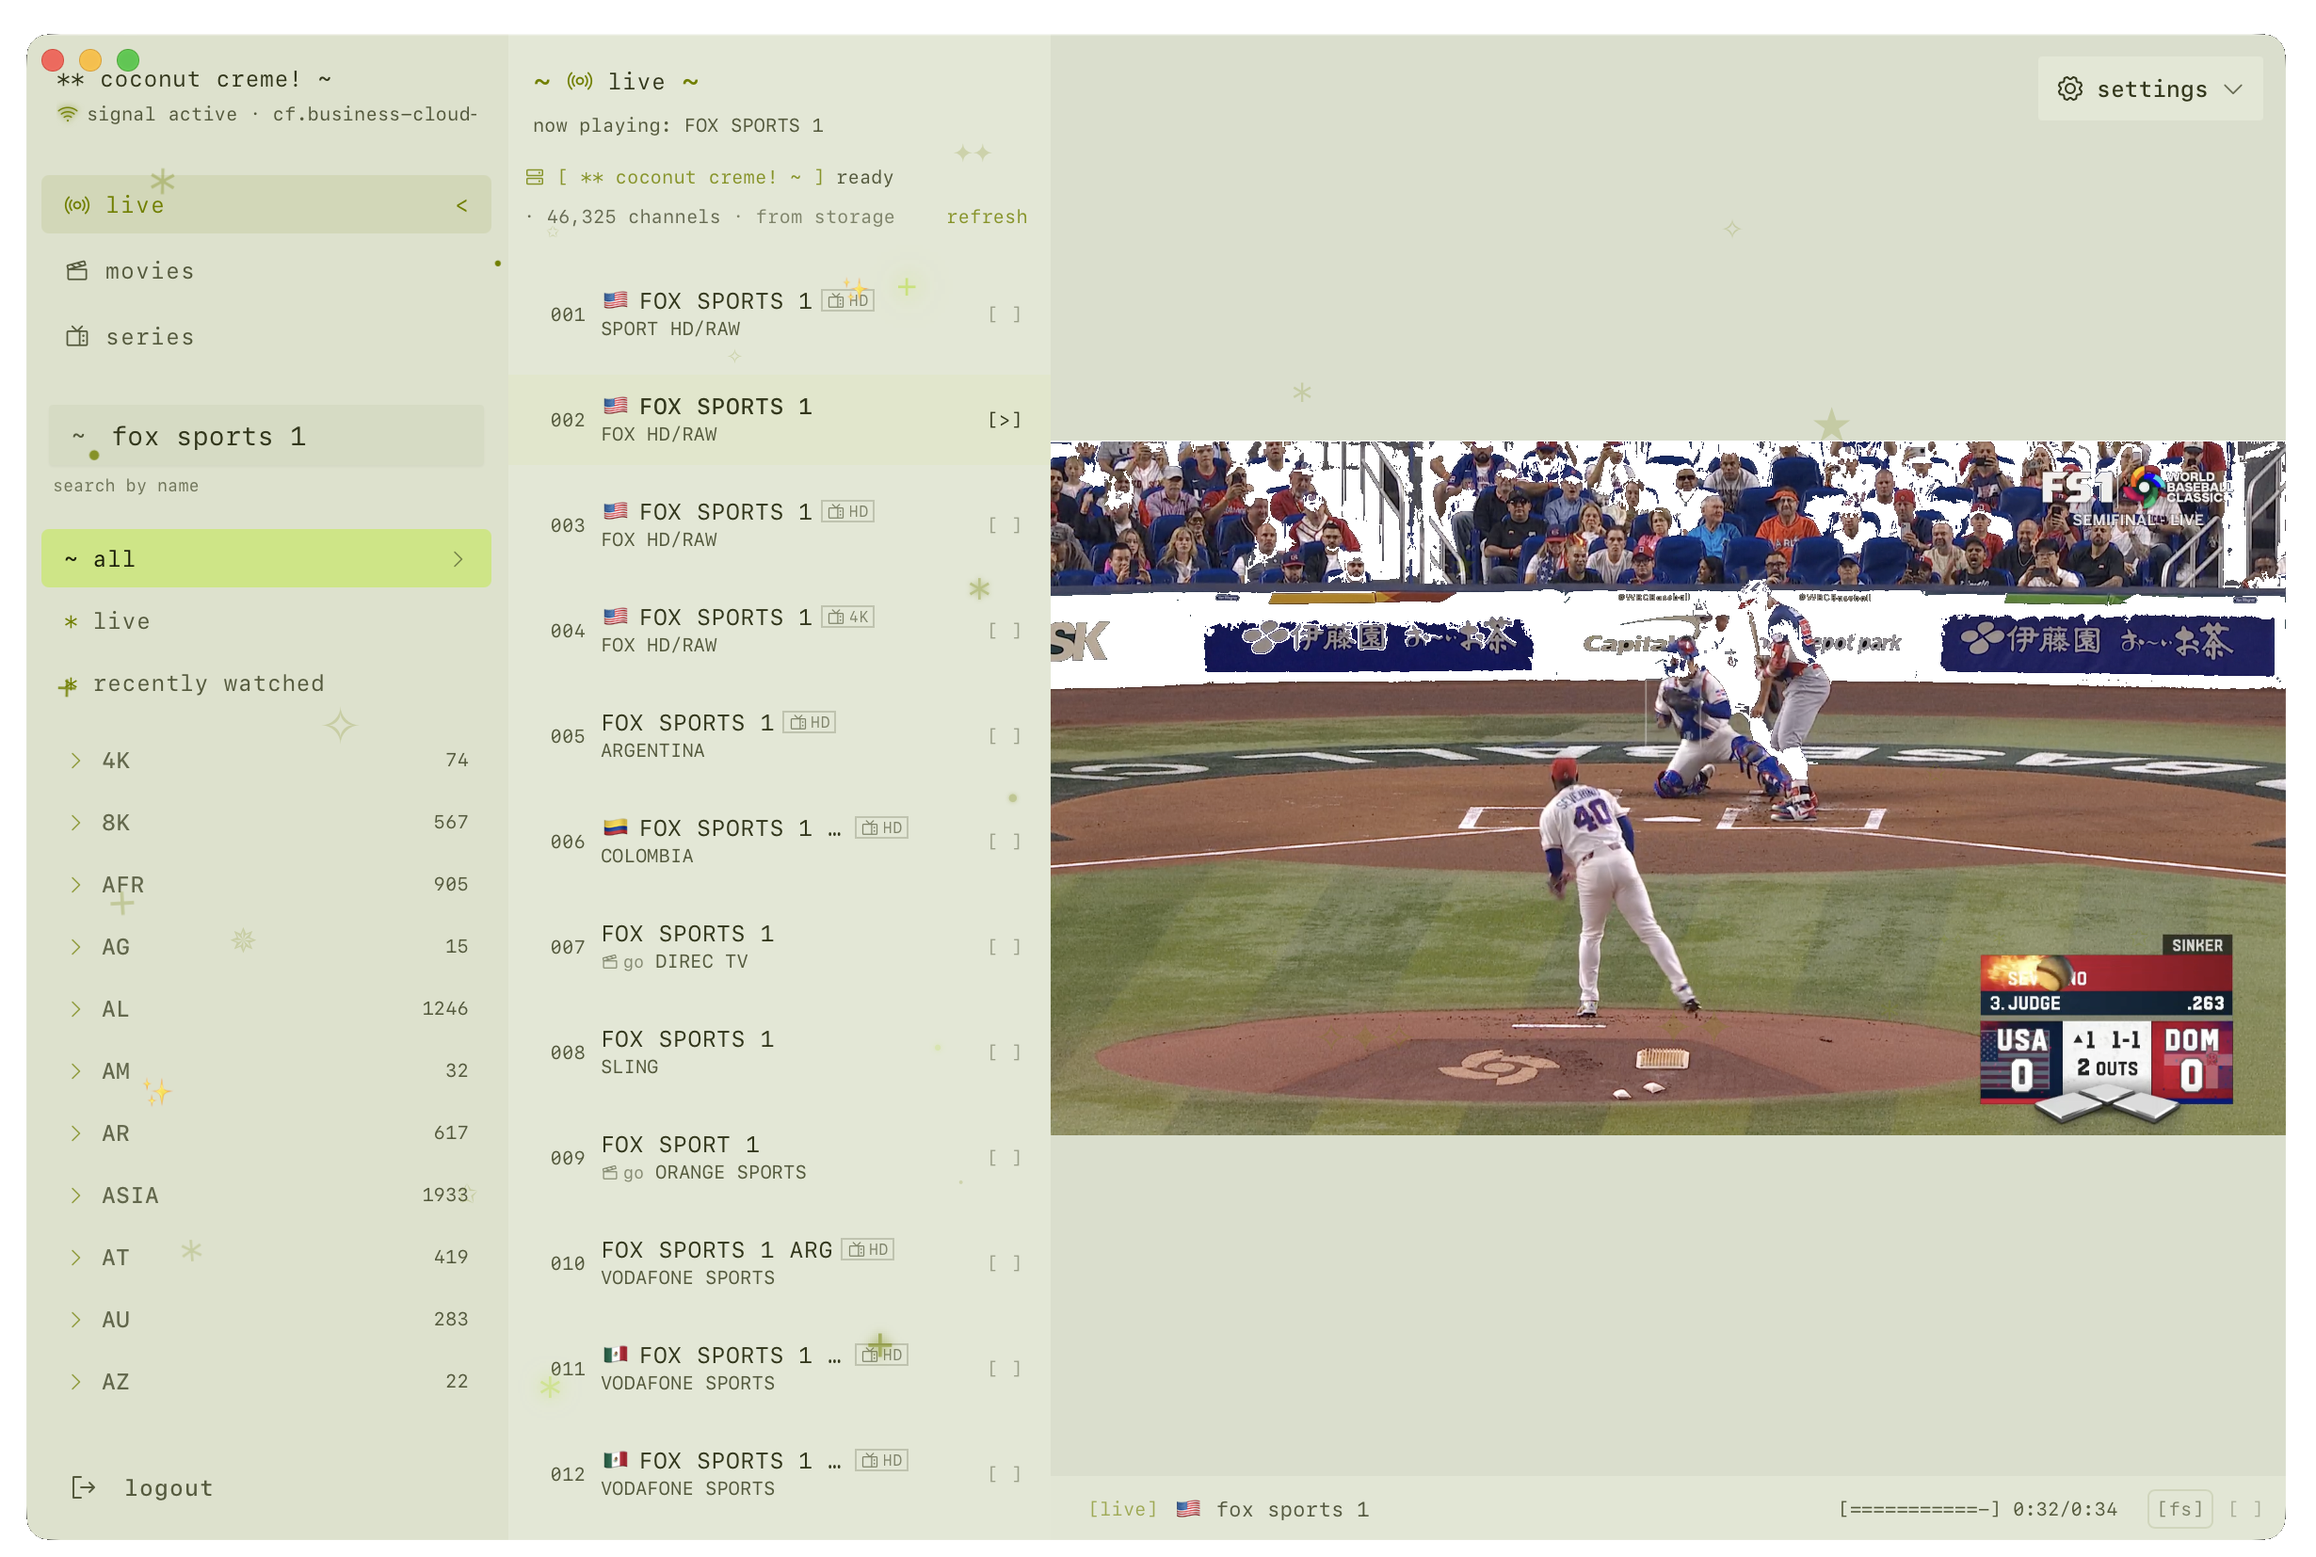
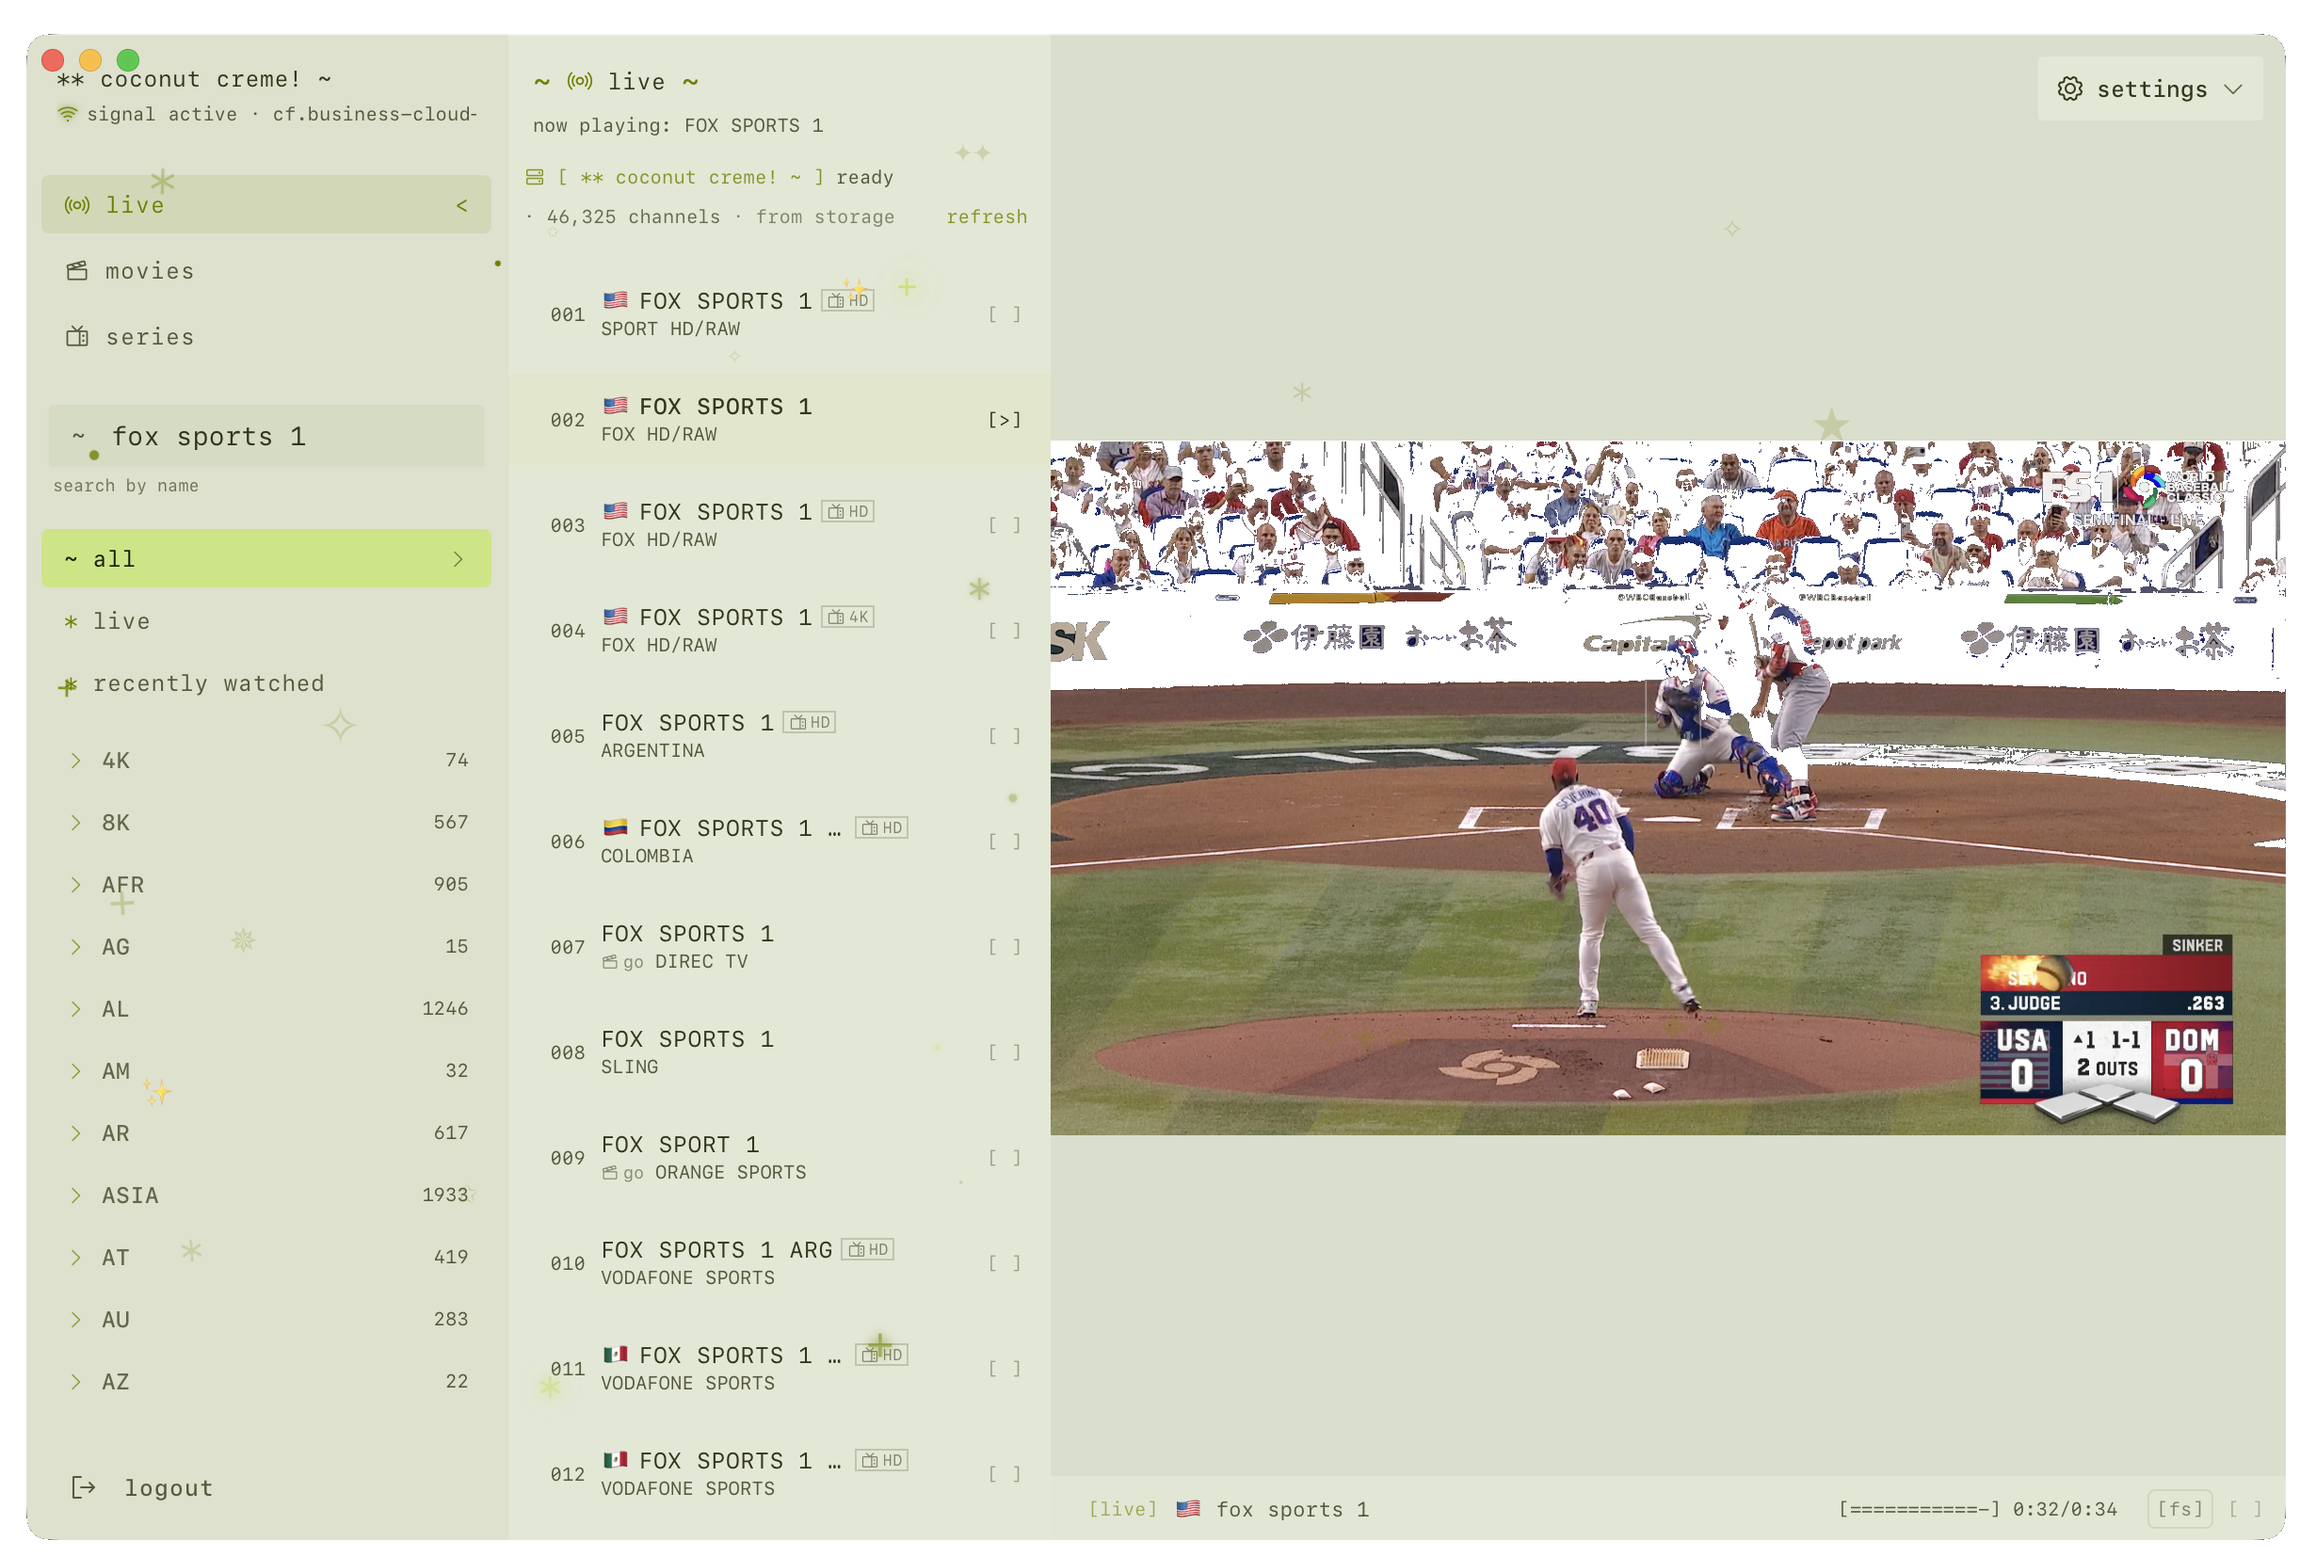
fix lightmode corner fringe pixels; all stars/deco use primary pop color

Changed region(s): [[0.4325, 0.2775, 0.9886, 0.4625], [0.7724, 0.4625, 0.9886, 0.5242]]

diff --git a/index.html b/index.html
@@ -122,7 +122,7 @@
   .cl-item.add::before { content: '+'; color: oklch(0.65 0.18 145); }
   .cl-sep  { color: var(--border); margin: 16px 0 14px; }
 
-  .deco { color: var(--dim); font-size: 10px; opacity: 0.4; white-space: pre; user-select: none; margin-bottom: 32px; line-height: 1.5; }
+  .deco { color: var(--primary); font-size: 10px; opacity: 0.4; white-space: pre; user-select: none; margin-bottom: 32px; line-height: 1.5; }
 
   /* floating stars — same as the app */
   .star {
@@ -158,15 +158,15 @@
 
 <!-- decorative stars — exact same chars/positions as the app -->
 <span class="star star-twinkle" style="font-size:1.5rem;top:8%;left:12%;color:var(--primary);--duration:3s;--delay:0s">*</span>
-<span class="star star-sparkle" style="font-size:1.125rem;top:15%;left:85%;color:var(--border);--duration:2.5s;--delay:0.3s">+</span>
+<span class="star star-sparkle" style="font-size:1.125rem;top:15%;left:85%;color:var(--primary);--duration:2.5s;--delay:0.3s">+</span>
 <span class="star star-twinkle" style="font-size:1.875rem;top:25%;left:5%;color:var(--primary);--duration:4s;--delay:0.7s">.</span>
 <span class="star star-sparkle" style="font-size:1.25rem;top:35%;left:92%;color:var(--primary);--duration:2.8s;--delay:1.1s">*</span>
 <span class="star star-twinkle" style="font-size:1.5rem;top:55%;left:8%;color:var(--primary);--duration:3.2s;--delay:0.5s">+</span>
-<span class="star star-sparkle" style="font-size:1.125rem;top:65%;left:88%;color:var(--border);--duration:2.6s;--delay:0.9s">.</span>
+<span class="star star-sparkle" style="font-size:1.125rem;top:65%;left:88%;color:var(--primary);--duration:2.6s;--delay:0.9s">.</span>
 <span class="star star-twinkle" style="font-size:1.25rem;top:78%;left:15%;color:var(--primary);--duration:3.5s;--delay:1.3s">*</span>
 <span class="star star-sparkle" style="font-size:1.5rem;top:85%;left:82%;color:var(--primary);--duration:2.9s;--delay:0.2s">+</span>
 <span class="star star-twinkle" style="font-size:1.125rem;top:12%;left:45%;color:var(--primary);--duration:4.2s;--delay:0.6s">.</span>
-<span class="star star-sparkle" style="font-size:1.25rem;top:88%;left:50%;color:var(--border);--duration:3.1s;--delay:1.0s">*</span>
+<span class="star star-sparkle" style="font-size:1.25rem;top:88%;left:50%;color:var(--primary);--duration:3.1s;--delay:1.0s">*</span>
 <span class="star star-twinkle" style="font-size:1.125rem;top:42%;left:3%;color:var(--primary);--duration:2.7s;--delay:0.4s">+</span>
 <span class="star star-sparkle" style="font-size:1.5rem;top:48%;left:95%;color:var(--primary);--duration:3.8s;--delay:0.8s">.</span>
 
